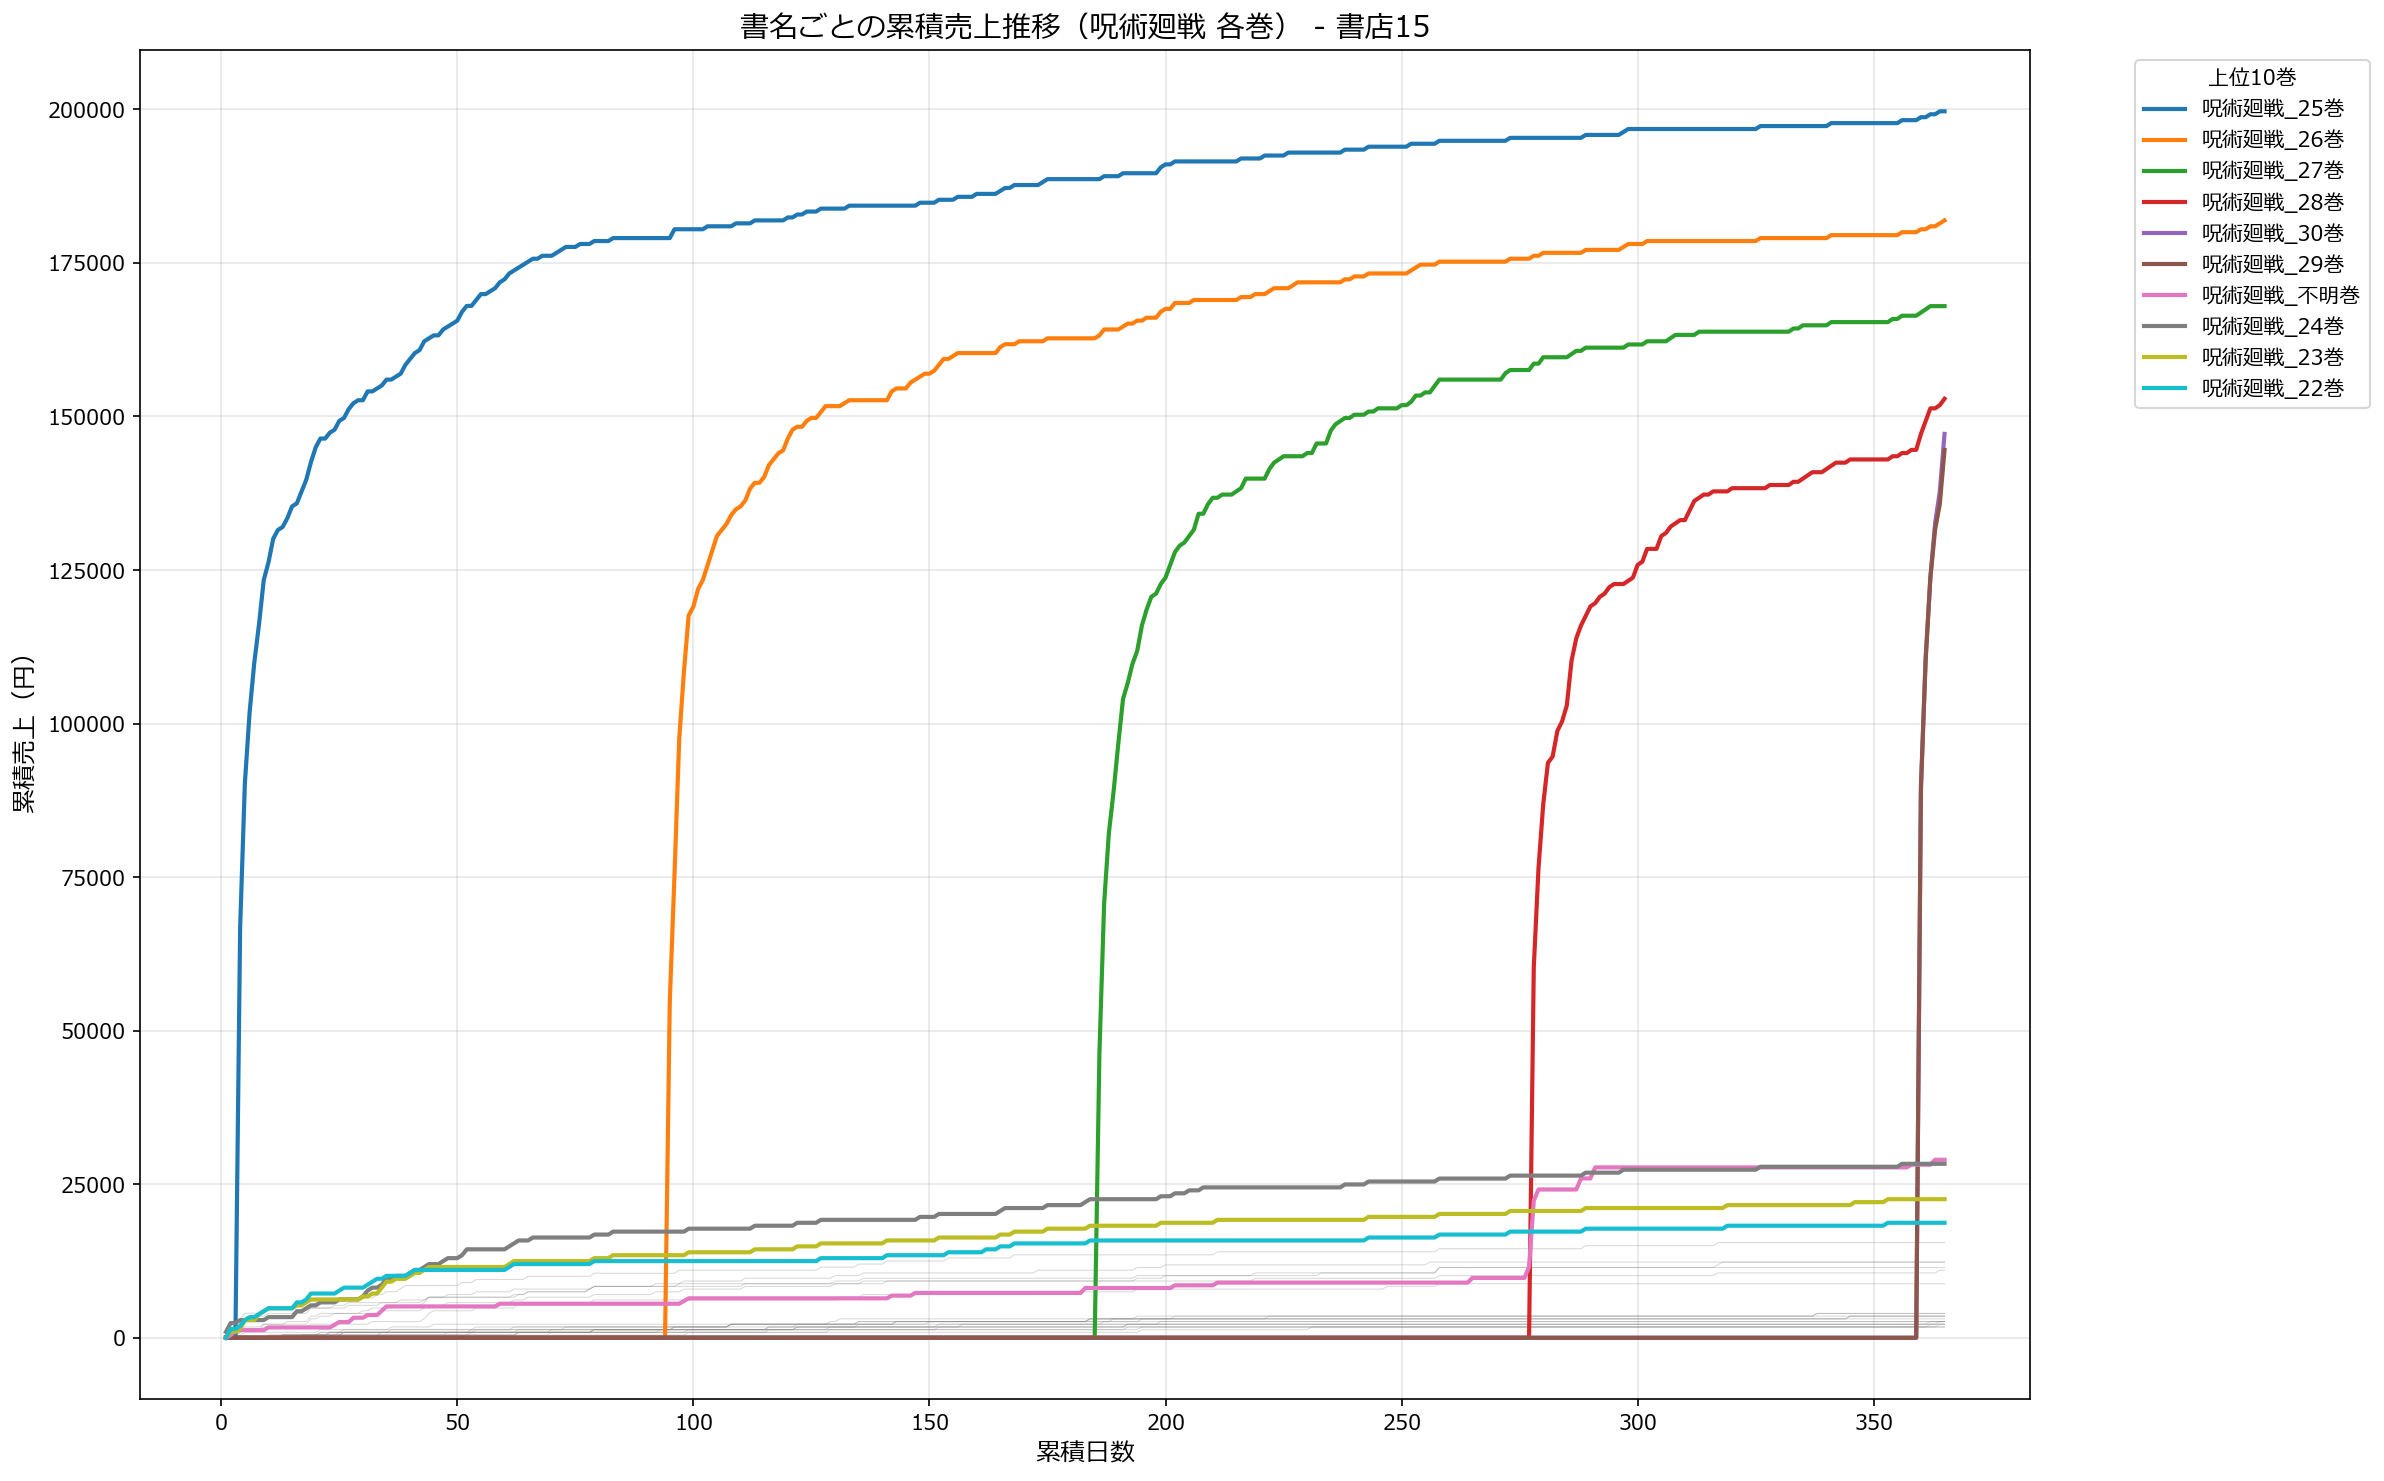
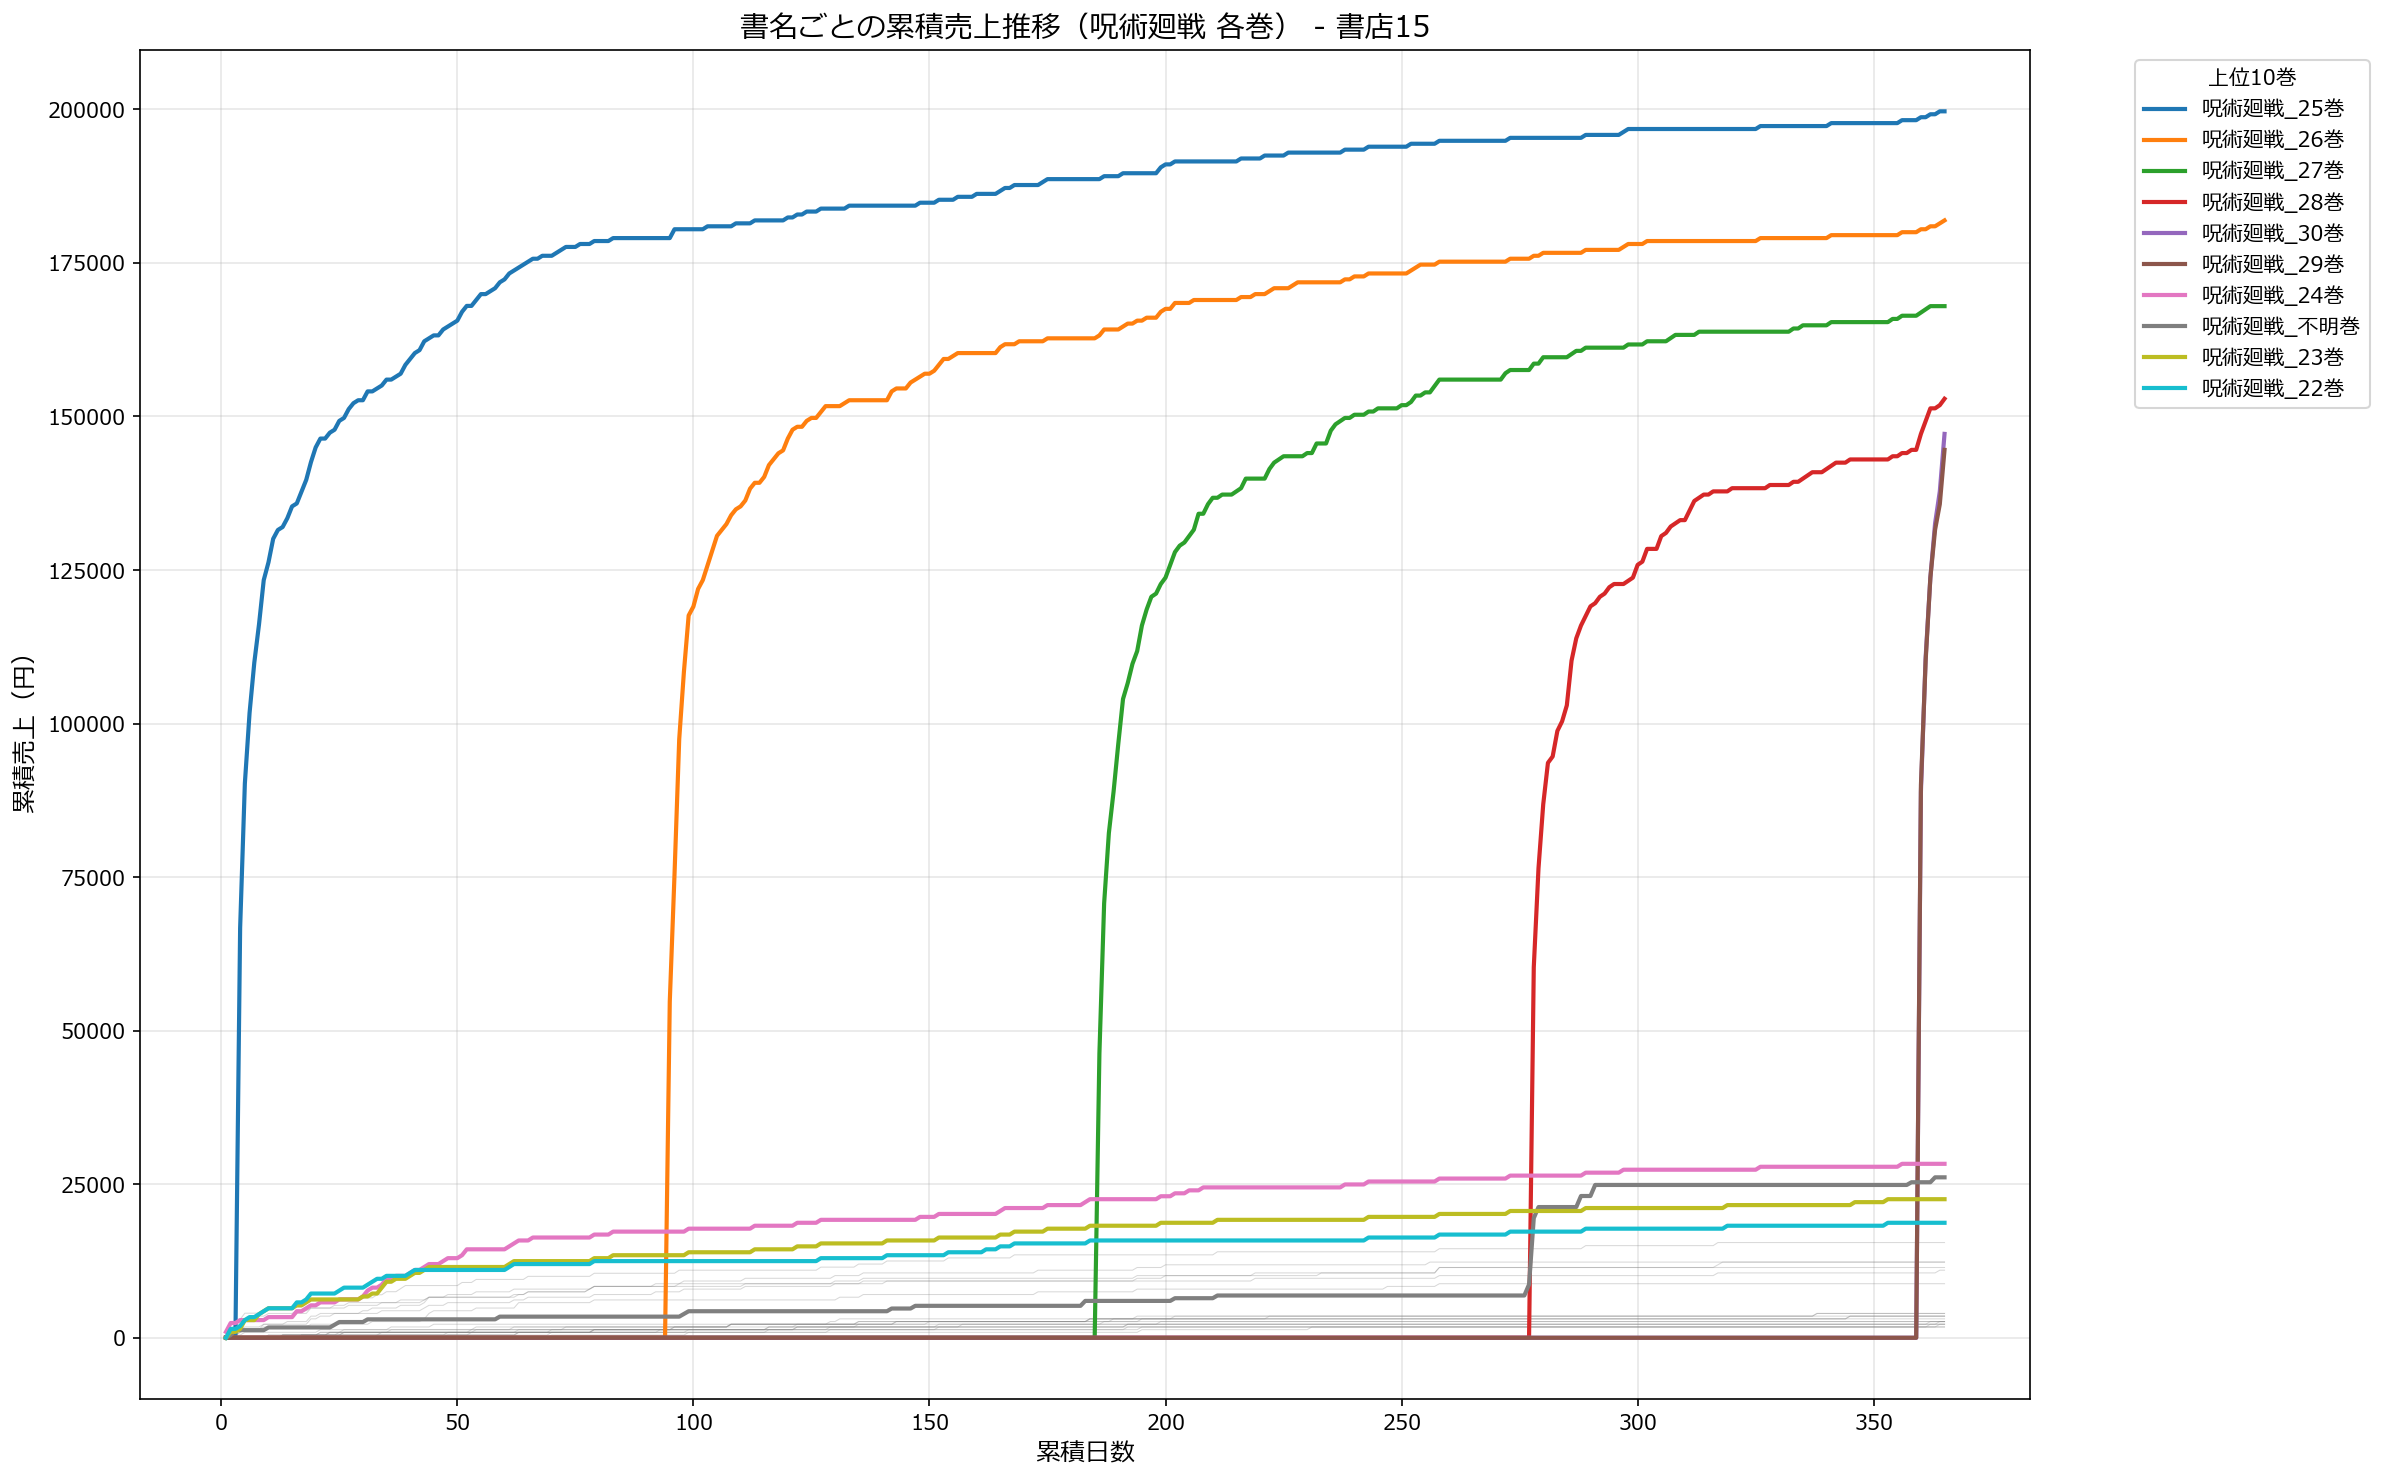
add assesment code

diff --git a/eda_2/plot_sales_Jujutsu.py b/eda_2/plot_sales_Jujutsu.py
@@ -90,6 +90,9 @@ def process_store(i):
 
     try:
         df = pd.read_parquet(file_path)
+        if '大分類' not in df.columns:
+            return f"Store {i}: '大分類' column not found, skipping..."
+        df = df[df['大分類'].astype(str).str.contains('コミ', na=False)]
         df = df[df['書名'].str.contains(book_name_filter, na=False)]
         if df.empty:
             return f"Store {i}: No data for '{book_name_filter}', skipping..."
